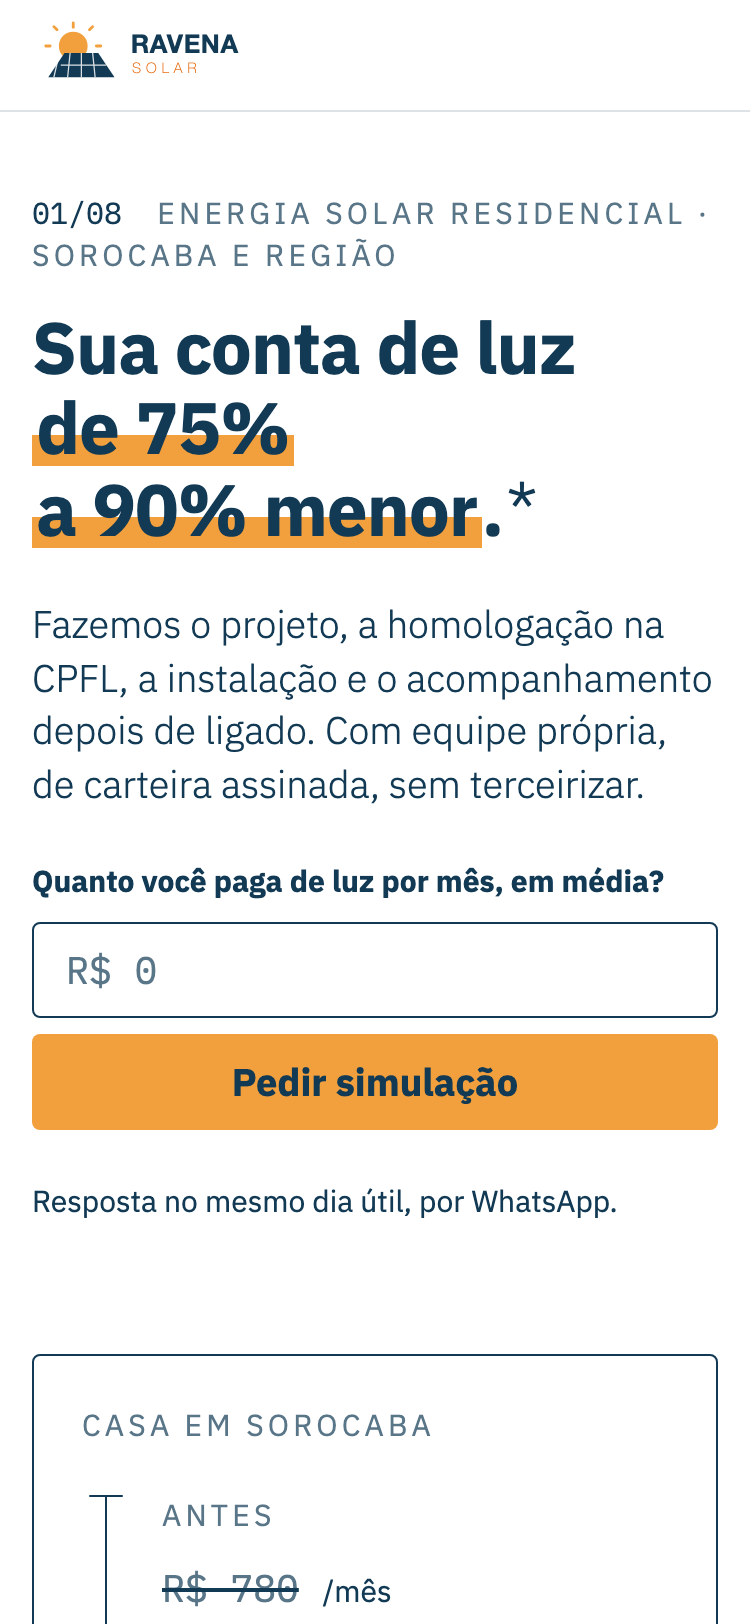
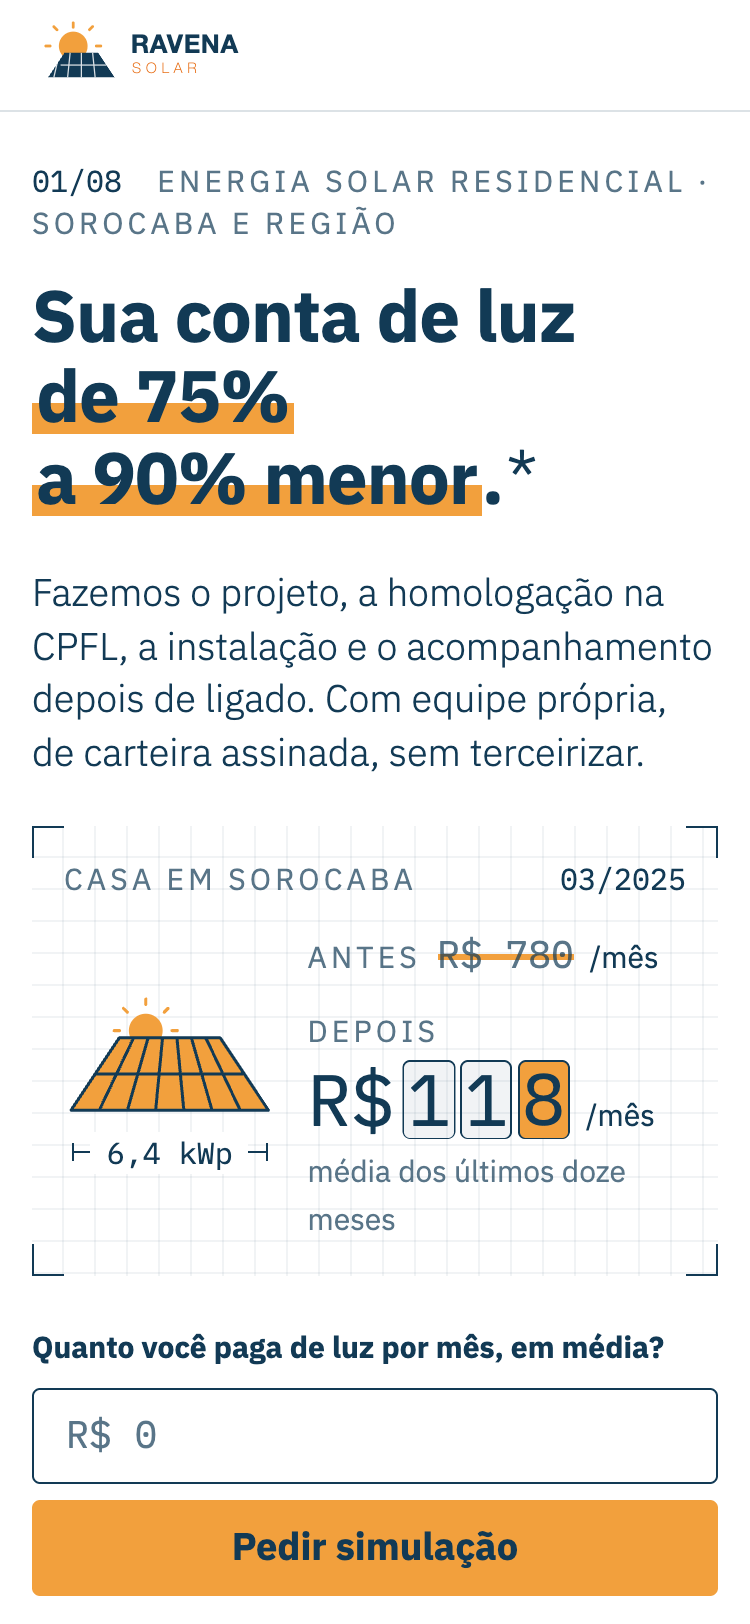
Hero: painel que acende junto com a queda da conta
O caso de Sorocaba vira uma folha de prancha (papel quadriculado e
marcas de corte), com o sol e o painel da logo em traço fino. Os traços
se desenham e as 14 células acendem enquanto a conta cai de R$ 780 para
R$ 118. Título de carimbo "Casa em Sorocaba · 03/2025" e cota de 6,4 kWp.

No celular o quadro ficou horizontal e baixo, e o botão "Pedir
simulação" cabe na primeira tela (375 × 812). Duas colunas só a partir
de 1024 px. Prints e verificação no VERIFICACAO.md.

Parte desta mudança (DESIGN.md, painel e JS) entrou por engano no
commit 30b5be6, feito por outra sessão na mesma pasta.

diff --git a/css/estilo.css b/css/estilo.css
@@ -268,22 +268,22 @@ label { display: block; font-weight: 700; margin-bottom: 8px; }
 
 /* ---------- 01 Hero ---------- */
 
-.dobra-hero { padding-top: 40px; }
+.dobra-hero { padding-top: 24px; }
 /* Celular: o texto se desfaz na grade para o quadro do caso vir logo depois do subtítulo,
    antes do campo da conta, e a animação aparecer na primeira tela. */
 .hero-grade { display: grid; }
 .hero-texto { display: contents; }
 .hero-texto > * + * { margin-top: 24px; }
 .hero-texto .rotulo + .titulo-hero { margin-top: 16px; }
-.hero-grade .antes-depois { order: 1; margin-top: 32px; }
-.hero-texto .campo-conta { order: 2; margin-top: 32px; }
+.hero-grade .antes-depois { order: 1; margin-top: 24px; }
+.hero-texto .campo-conta { order: 2; margin-top: 24px; }
 .hero-texto .campo-conta + .pequeno { order: 2; }
 .hero-grade .nota { order: 3; margin-top: 40px; }
 
 /* Folha de prancha: papel quadriculado e marcas de corte nos cantos, sem moldura. */
 .antes-depois {
   --corte: linear-gradient(var(--marinho), var(--marinho));
-  padding: 24px;
+  padding: 16px;
   align-self: start;
   background:
     var(--corte) left top / 16px 1px no-repeat, var(--corte) left top / 1px 16px no-repeat,
@@ -294,10 +294,14 @@ label { display: block; font-weight: 700; margin-bottom: 8px; }
     linear-gradient(to bottom, var(--marinho-06) 1px, transparent 1px) -1px -1px / 16px 16px,
     var(--branco);
 }
-.antes-depois-linhas { display: flex; gap: 16px; margin-top: 16px; }
+.antes-depois-linhas { display: flex; gap: 16px; margin-top: 12px; }
+/* Título da folha, como no carimbo de prancha: o que é à esquerda, a data à direita. */
+.caso-titulo { display: flex; justify-content: space-between; gap: 16px; }
+.caso-titulo .numero { color: var(--marinho); }
 
 /* Painel que acende: sol e painel da logo em traço fino. */
-.painel-caso { flex: none; width: 40%; }
+/* Celular: painel estreito à esquerda, para "R$ 118 /mês" caber numa linha ao lado. */
+.painel-caso { flex: none; width: 34%; align-self: center; }
 .painel-desenho { width: 100%; height: auto; overflow: visible; }
 .painel-sol { fill: var(--ambar); }
 .painel-raios { fill: none; stroke: var(--ambar); stroke-width: 4.5; stroke-linecap: round; }
@@ -317,10 +321,10 @@ label { display: block; font-weight: 700; margin-bottom: 8px; }
   background: linear-gradient(var(--marinho), var(--marinho)) 0 50% / 100% 1px no-repeat;
 }
 .cota-painel span { position: relative; padding: 0 8px; background: var(--branco); }
-.antes-depois-valores { display: grid; gap: 16px; flex: 1; min-width: 0; align-content: start; }
-.ad-linha { display: flex; flex-wrap: wrap; align-items: baseline; gap: 4px 12px; }
+.antes-depois-valores { display: grid; gap: 12px; flex: 1; min-width: 0; align-content: start; }
+.ad-linha { display: flex; flex-wrap: wrap; align-items: baseline; gap: 4px 8px; }
 .ad-linha .rotulo, .ad-obs { width: 100%; }
-/* Celular: "Antes" na mesma linha do valor, para o quadro ficar baixo. */
+/* "Antes" na mesma linha do valor, para o quadro ficar baixo. */
 .ad-antes .rotulo { width: auto; }
 .ad-obs { color: var(--marinho-70); }
 /* Risco âmbar desenhado com fundo (dá para animar), como na lista da dobra 2. */
@@ -371,14 +375,19 @@ label { display: block; font-weight: 700; margin-bottom: 8px; }
 }
 @media (min-width: 768px) {
   .dobra-hero { padding-top: 80px; }
-  .hero-grade { grid-template-columns: minmax(0, 7fr) minmax(auto, 4fr); column-gap: 64px; row-gap: 32px; }
+  /* Tablet: uma coluna, como no celular, com o quadro horizontal na largura do campo. */
+  .hero-grade .antes-depois { max-width: 560px; padding: 24px; }
+}
+/* Duas colunas só a partir de 1024 px: abaixo disso a coluna do quadro fica estreita demais. */
+@media (min-width: 1024px) {
+  .hero-grade .antes-depois { max-width: none; }
+  .hero-grade { grid-template-columns: minmax(0, 7fr) minmax(auto, 4fr); column-gap: 48px; row-gap: 32px; }
   .hero-texto { display: block; }
   .hero-texto .campo-conta { margin-top: 24px; }
   .hero-grade .antes-depois { margin-top: 0; padding: 32px; }
   /* Computador: painel em cima, valores embaixo. */
   .antes-depois-linhas { flex-direction: column; gap: 24px; margin-top: 24px; }
   .painel-caso { width: 100%; }
-  .ad-antes .rotulo { width: 100%; }
   .antes-depois-valores { gap: 24px; }
   .hero-grade .nota { margin-top: 0; }
 }

diff --git a/index.html b/index.html
@@ -64,7 +64,7 @@
       </div>
 
       <figure class="antes-depois" aria-labelledby="caso-resumo">
-        <figcaption id="caso-resumo" class="rotulo">Casa em Sorocaba · março de 2025</figcaption>
+        <figcaption id="caso-resumo" class="rotulo caso-titulo"><span>Casa em Sorocaba</span> <span class="numero" aria-hidden="true">03/2025</span><span class="visualmente-oculto">, instalado em março de 2025</span></figcaption>
         <div class="antes-depois-linhas">
           <!-- Painel que acende: sol e painel da logo em traço fino, 2 fileiras de 7 células.
                As células acendem coluna por coluna enquanto a conta cai (js/pagina.js). -->

diff --git a/VERIFICACAO.md b/VERIFICACAO.md
@@ -14,6 +14,8 @@ Evidências da verificação pedida no `DESIGN.md`, seção 11. Feita em 2 de no
 | Dobra | Computador (1440 px) | Celular (375 px) |
 |---|---|---|
 | 01 Hero | `computador-1440-01-hero.png` | `celular-375-01-hero.png` |
+| 01 Hero: meio da animação | `computador-1440-01-hero-meio.png` | `celular-375-01-hero-meio.png` |
+| 01 Hero: movimento reduzido | `computador-1440-01-hero-movimento-reduzido.png` | `celular-375-01-hero-movimento-reduzido.png` |
 | 02 O problema | `computador-1440-02-problema.png` | `celular-375-02-problema.png` |
 | 03 A solução (início) | `computador-1440-03-solucao.png` | `celular-375-03-solucao.png` |
 | 03 Animação: manhã | `computador-1440-03-animacao-a-manha.png` | `celular-375-03-animacao-a-manha.png` |
@@ -103,6 +105,8 @@ Também não aparecem: indústria, comércio acima de 75 kWp, manutenção de si
 
 Com `prefers-reduced-motion: reduce`, a animação não é ligada. O resultado foi `cena-animada` ausente, palco `display: none` e quadros estáticos `display: grid`. No lugar dela aparecem os dois quadros estáticos, dia e noite, com as legendas. As transições do CSS ficam desligadas e a rolagem fica sem animação. Prints: `*-03-movimento-reduzido.png`.
 
+No hero, com movimento reduzido, o painel já aparece desenhado, com as 14 células acesas, e a conta já está em R$ 118, riscando o R$ 780. Prints: `*-01-hero-movimento-reduzido.png`.
+
 Corrigido nesta verificação: nos quadros estáticos do computador, o painel "Seu crédito solar" cobria a ponta da maquete. Agora ele fica colado embaixo do quadro.
 
 ## 7. Formulário
@@ -144,6 +148,23 @@ Corrigido nesta verificação: nos quadros estáticos do computador, o painel "S
 - **Placeholders retirados (2/11/2026):** a pedido do usuário, a página não tem mais nenhum `[aguardando: …]`. Razão social, endereço, telefone, WhatsApp e marca do inversor foram preenchidos e a política de privacidade foi escrita; o link do Google foi retirado. Origem de cada dado no `briefing.md`, seção 16. Conferido a 375 e 1440 px, sem rolagem lateral e sem erro no console: `computador-1440-04-prova-preenchido.jpg`, `computador-1440-07-quem-somos-preenchido.jpg`, `celular-375-07-quem-somos-preenchido.jpg`, `computador-1440-09-rodape-preenchido.jpg` e `celular-375-09-rodape-preenchido.jpg`. Os prints antigos das dobras 4, 7 e do rodapé ainda mostram os placeholders.
 - **Ainda depende do cliente:** destino do pedido de simulação (não aparece na página).
 - **Avisar o cliente**, por causa do Procon: a lista riscada da dobra 2 e a estimativa do formulário (`DESIGN.md`, seção 12).
+
+## 10a. Hero: painel que acende (2/11/2026)
+
+Direção escolhida pelo usuário entre três esboços (`DESIGN.md`, seção 3, dobra 1). Prints tirados com o Chrome em modo invisível, controlado pelo DevTools Protocol, com a animação rodando em tempo real.
+
+| Checagem | Resultado |
+|---|---|
+| Sequência | Os traços do painel se desenham; depois a conta cai de R$ 780 para R$ 118 nos cilindros, enquanto as células acendem coluna por coluna, do lado do sol para o outro; ao parar, o R$ 780 é riscado. Uma vez só. No meio (cerca de 2,6 s): R$ 125 e 10 de 14 células acesas |
+| Estado final | 14 células acesas, classes `desenhado` e `caiu` no quadro |
+| Sem JavaScript | O CSS já mostra as células acesas e o valor final; o script do `<head>` desliga a animação se o `pagina.js` não montar o contador em 3 s |
+| Celular, primeira tela (375 × 812) | O botão "Pedir simulação" termina em 798 px, dentro da tela (antes, terminava em cerca de 1080 px, fora dela) |
+| Computador (1440 × 900) | Quadro e coluna de texto alinhados (de 136 a 644 px); nenhuma rolagem lateral |
+| Tablet (820 px) | Uma coluna, com o quadro horizontal e largura máxima de 560 px; as duas colunas começam em 1024 px, porque abaixo disso o rótulo e o "/mês" quebravam |
+| Leitor de tela | O desenho é `aria-hidden`; a legenda é lida como "Casa em Sorocaba, instalado em março de 2025", e o valor lido é só "R$ 118" |
+| Cores e tamanhos | Só as cores da logo (marinho, âmbar e transparências); textos nos três tamanhos; nenhuma sombra; o sol não se mexe |
+
+Corrigido nesta revisão: no computador, o rótulo "Casa em Sorocaba · março de 2025" quebrava e deixava "2025" sozinho, e virou um título de carimbo ("Casa em Sorocaba" à esquerda, "03/2025" à direita); no celular, o "/mês" quebrava abaixo do valor, e o painel ficou mais estreito.
 
 ## 10. Registro de acessos (`DESIGN.md`, seção 13)
 
